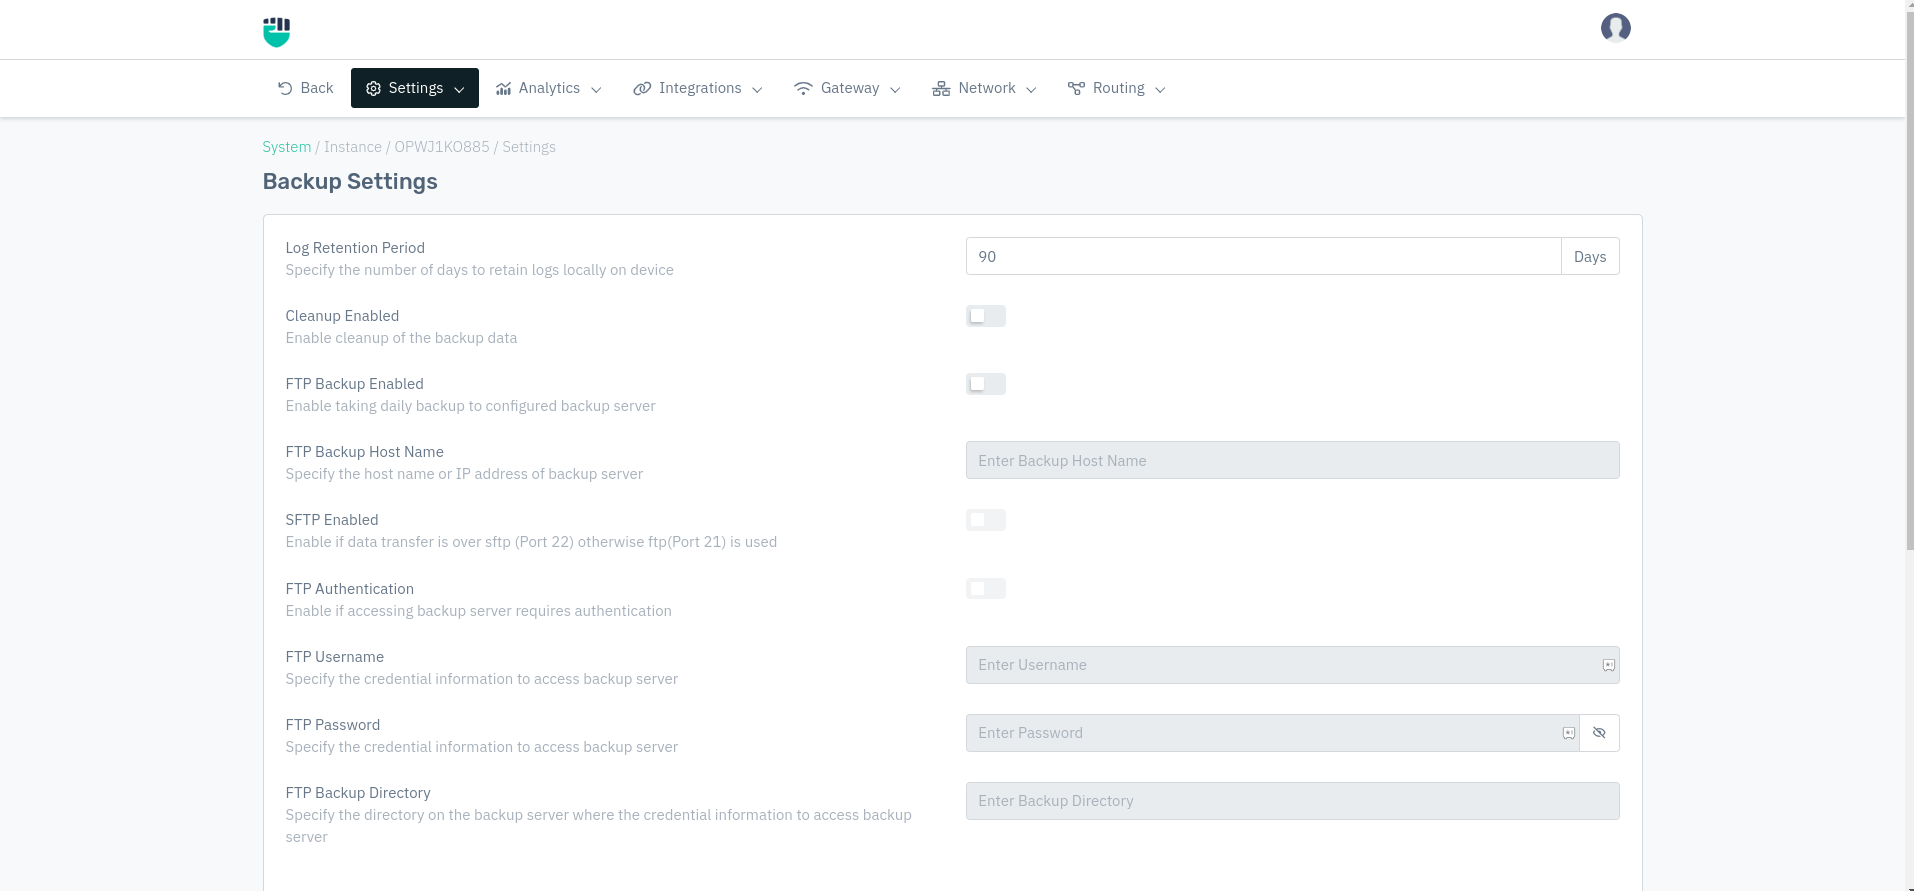
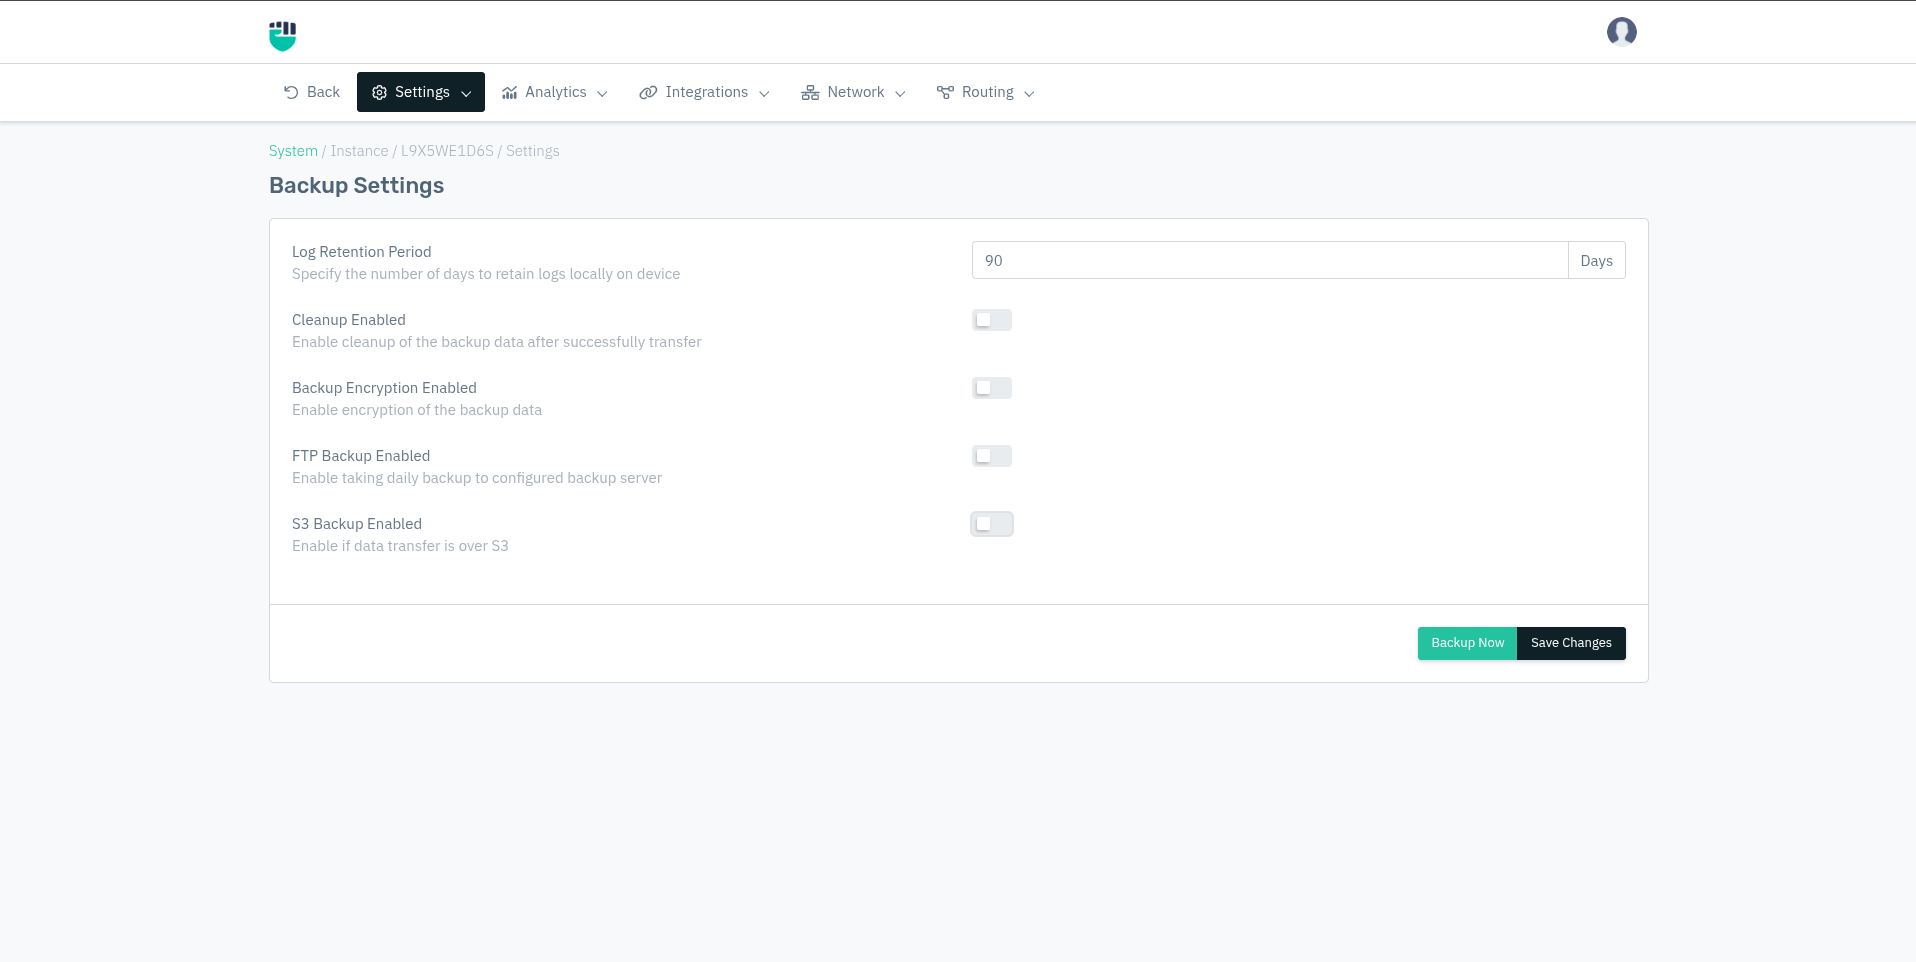
Backup Settings Updated

diff --git a/docs/enterprise/platform/system/instance/settings/backup_policy.md b/docs/enterprise/platform/system/instance/settings/backup_policy.md
@@ -16,10 +16,16 @@ By default, Haltdos retains logs locally on the device for a duration of 90 days
 :::note Note 
 It is recommended to configure periodic backup to avoid data loss and ensure log availability for compliance and forensic examination
 :::
+ 
+ When **Backup Encryption** is enabled, additional fields appear to configure the cipher and secret key.  
+When **FTP Backup** is enabled, additional fields appear for FTP server configuration.  
+When **S3 Backup** is enabled, additional fields appear for S3 bucket configuration.
 
 ![Backup Policy1](/img/platform/v8/docs/backup_setting1.png)
 
 ![Backup Policy2](/img/platform/v8/docs/backup_setting2.png)  
+
+![Backup Policy2](/img/platform/v8/docs/backup_setting3.png)  
 
 ---
 
@@ -28,6 +34,7 @@ It is recommended to configure periodic backup to avoid data loss and ensure log
 1. Go to **System > Instance > (Select Instance) > Setting > Backup Setting**.
 2. Configure your settings.
 3. Click **Save Changes**.
+4. To trigger an immediate backup, click **Backup Now**
 
 ---
 
@@ -38,21 +45,79 @@ It is recommended to configure periodic backup to avoid data loss and ensure log
 This policy allows users to set the retention period for backups. This policy refers to the number of days for which logs retain locally on the device.
 
 ```
-    Accepted values: Integer
-
-    Default: 2 
+Accepted values : Integer (in days)
+Default         : 90
 ```
 
+**Example:** `90` — logs from the past 90 days are retained; anything older is purged automatically.
+
+:::note
+This setting controls local retention only. Logs transferred to FTP or S3 are retained on the remote server independently of this value.
+:::
+
+---
 
 **Cleanup Enabled**
 
-This option allows users to enable or disable the backup settings.
+When enabled, local backup data on the device is automatically deleted after it has been successfully transferred to the configured FTP or S3 destination. This frees up disk space on the appliance.
 
 ```
-    Accepted values: Enable / Disable
-
-    Default: Disable 
+Accepted values : Enable / Disable
+Default         : Disable
 ```
+
+:::note
+Enable this only after confirming that FTP or S3 backup is working correctly. If cleanup runs before a successful transfer, local logs will be deleted without a remote copy.
+:::
+
+---
+
+**Backup Encryption Enabled**
+
+When enabled, backup data is encrypted before being transferred to the remote FTP or S3 destination. Enabling this reveals two additional fields: **Encryption Cipher** and **Encryption Secret Key**.
+
+```
+Accepted values : Enable / Disable
+Default         : Disable
+```
+
+---
+
+**Encryption Cipher**
+
+*(Visible only when Backup Encryption Enabled = ON)*
+
+The encryption algorithm used to encrypt backup data before transfer.
+
+```
+Accepted values : AES-256-ECB
+Default         : AES-256-ECB
+```
+
+:::note
+AES-256-ECB uses a 256-bit key for encryption. Ensure the same cipher is configured on the receiving end if decryption is required after restore.
+:::
+
+---
+
+**Encryption Secret Key**
+
+*(Visible only when Backup Encryption Enabled = ON)*
+
+The secret key used to encrypt and decrypt the backup data. This key must be kept secure — without it, encrypted backups cannot be restored.
+
+```
+Accepted values : String — alphanumeric and special characters allowed
+Default         : Blank
+```
+
+**Example:** A strong secret key of sufficient length, e.g. `MyS3cur3B@ckupK3y!2024`
+
+:::danger
+Store this key in a secure location (e.g., a password manager or secrets vault). If the key is lost, encrypted backup files cannot be decrypted and the data will be unrecoverable.
+:::
+
+---
 
 
 **FTP Backup Enabled**
@@ -76,30 +141,54 @@ This option allows users to specify the hostname or IP address of the backup ser
     Default: Blank 
 ```
 
+**Examples:**
+- `backup.company.com`
+- `192.168.1.50`
+
+---
 
 **SFTP Enabled**
 
-This option helps to choose if the user wants data transfer is over SFTP (Port 22), otherwise data will transfer using FTP (Port 21). Users can enable or disable the settings as per their choice. By default, it is set to disable.
+*(Visible only when FTP Backup Enabled = ON)*
+
+When enabled, data is transferred over **SFTP (Port 22)** — a secure, SSH-based protocol. When disabled, data is transferred over standard **FTP (Port 21)**, which is unencrypted.
 
 ```
-    Accepted values: Enabled / Disabled
-
-    Default: Disabled
+Accepted values : Enable / Disable
+Default         : Disable
 ```
 
+| Setting | Protocol used | Port | Encryption |
+|---|---|---|---|
+| **Enabled** | SFTP | 22 | Yes (SSH-based) |
+| **Disabled** | FTP | 21 | No |
+
+:::note
+It is strongly recommended to enable SFTP in production environments to prevent backup data from being transmitted in plaintext over the network.
+:::
+
+---
 
 **FTP Authentication**
 
-This option allows users to set a user authentication method to access the backup server. By default, this is set to disable.
+*(Visible only when FTP Backup Enabled = ON)*
+
+When enabled, the backup transfer uses username and password credentials to authenticate with the FTP/SFTP server. Enabling this reveals the **FTP Username**, **FTP Password**, and **FTP Backup Directory** fields. By default, this is set to disable.
 
 ```
     Accepted values: Enabled / Disabled
 
     Default: Disabled
 ```
+:::note
+Most FTP/SFTP servers require authentication. Disable only if the backup server is configured to accept anonymous connections.
+:::
 
+---
 
 **FTP Username**
+*(Visible only when FTP Authentication = ON)*
+
 Users can only use this option when Authentication is set to enable. This option allows users to set a username to authenticate the people
 
 ```
@@ -107,6 +196,9 @@ Users can only use this option when Authentication is set to enable. This option
 
     Default: Blank
 ```
+**Example:** `haltdos-backup`, `ftpuser01`
+
+---
 
 
 **FTP Password**
@@ -117,7 +209,11 @@ This option allows users to set the desired password to authenticate the user. T
 
     Default: Blank
 ```
+:::caution
+Use a strong, unique password for the backup FTP account. Avoid reusing passwords from other services.
+:::
 
+---
 
 **FTP Backup Directory**
 This option allows users to specify the directory on the backup server where they can use credential information to access the backup server.
@@ -127,7 +223,11 @@ This option allows users to specify the directory on the backup server where the
 
     Default: Blank
 ```
+**Examples:**
+- `/backups/haltdos`
+- `/home/ftpuser/haltdos-logs`
 
+---
 
 **S3 Backup Enabled**
 This option allows users to enable or disable if the date transfer is over S3.
@@ -137,7 +237,11 @@ This option allows users to enable or disable if the date transfer is over S3.
 
     Default: Disabled
 ```
+:::note
+S3 Backup is compatible with AWS S3 and any S3-compatible storage service (e.g., MinIO, Wasabi, DigitalOcean Spaces). Configure the **S3 URL** field accordingly for non-AWS providers.
+:::
 
+---
 
 **S3 Region**
 This option allows users to specify the AWS region where the S3 bucket is located.
@@ -147,9 +251,16 @@ This option allows users to specify the AWS region where the S3 bucket is locate
 
     Default: Blank 
 ```
+**Examples:**
+- `us-east-1`
+- `ap-south-1`
+- `eu-west-2`
 
+---
 
 **S3 Bucket Name**
+*(Visible only when S3 Backup Enabled = ON)*
+
 This option allows users to specify the container for storing objects in S3.
 
 ```
@@ -157,7 +268,9 @@ This option allows users to specify the container for storing objects in S3.
 
     Default: Blank
 ```
+**Example:** `haltdos-backup-prod`, `company-waf-logs`
 
+---
 
 **S3 Path**
 This option allows users to specify the directory path for storing logs in S3.
@@ -167,7 +280,11 @@ This option allows users to specify the directory path for storing logs in S3.
 
     Default: Blank
 ```
+**Examples:**
+- `haltdos/logs`
+- `backups/instance1`
 
+---
 
 **S3 Access Key**
 This option allows users to specify the unique identifier of the user or application making the request.
@@ -180,11 +297,33 @@ This option allows users to specify the unique identifier of the user or applica
 
 
 **S3 Secret Key**
-This option allows users to specify the security credential to access the S3 service.
+*(Visible only when S3 Backup Enabled = ON)*
+
+The AWS Secret Access Key corresponding to the S3 Access Key. This is used to authenticate API requests to S3.
 
 ```
-    Accepted values: String
-
-    Default: Blank
+Accepted values : String — alphanumeric and special characters (typically 40 characters for AWS)
+Default         : Blank
 ```
 
+:::danger
+Never share or expose the S3 Secret Key. Store it securely. If compromised, rotate the key immediately in AWS IAM and update this field.
+:::
+
+---
+
+**S3 URL**
+
+*(Visible only when S3 Backup Enabled = ON)*
+
+The endpoint URL of the S3 service. For standard AWS S3, this can be left as the default AWS endpoint. For S3-compatible storage providers (MinIO, Wasabi, etc.), enter the provider's specific endpoint URL.
+
+```
+Accepted values : String — valid HTTPS URL
+Default         : Blank (uses default AWS S3 endpoint)
+```
+
+**Examples:**
+- AWS S3: `https://s3.amazonaws.com`
+- MinIO (self-hosted): `https://minio.company.com`
+- Wasabi: `https://s3.wasabisys.com`
